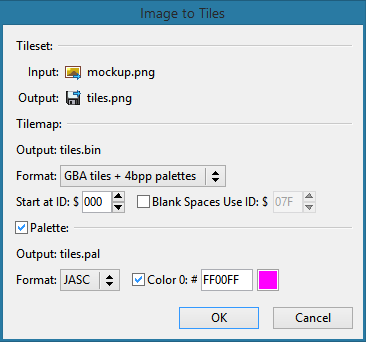
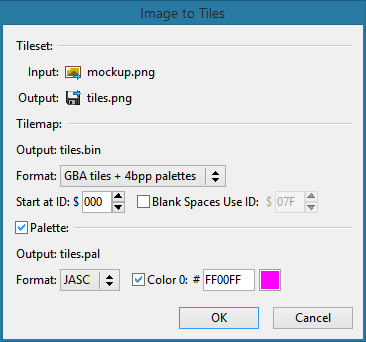
Join the leading "#" and "$" to their inputs for deactivation styling

diff --git a/src/option-dialogs.cpp b/src/option-dialogs.cpp
@@ -799,13 +799,13 @@ void Image_To_Tiles_Dialog::initialize_content() {
 	_tilemap_name = new Label(0, 0, 0, 0, "Output: " NO_FILES_DETERMINED_LABEL);
 	_format = new Dropdown(0, 0, 0, 0, "Format:");
 	_start_id = new Default_Hex_Spinner(0, 0, 0, 0, "Start at ID: $");
-	_use_space = new OS_Check_Button(0, 0, 0, 0, "Blank Spaces Use ID: $");
-	_space_id = new Default_Hex_Spinner(0, 0, 0, 0);
+	_use_space = new OS_Check_Button(0, 0, 0, 0, "Blank Spaces Use ID: ");
+	_space_id = new Default_Hex_Spinner(0, 0, 0, 0, "$");
 	_palette = new OS_Check_Button(0, 0, 0, 0, "Palette:");
 	_palette_name = new Label(0, 0, 0, 0, "Output: " NO_FILES_DETERMINED_LABEL);
 	_palette_format = new Dropdown(0, 0, 0, 0, "Format:");
-	_color_zero = new OS_Check_Button(0, 0, 0, 0, "Color 0: #");
-	_color_zero_rgb = new OS_Hex_Input(0, 0, 0, 0);
+	_color_zero = new OS_Check_Button(0, 0, 0, 0, "Color 0: ");
+	_color_zero_rgb = new OS_Hex_Input(0, 0, 0, 0, "#");
 	_color_zero_swatch = new Fl_Button(0, 0, 0, 0);
 	_image_chooser = new Fl_Native_File_Chooser(Fl_Native_File_Chooser::BROWSE_FILE);
 	_tileset_chooser = new Fl_Native_File_Chooser(Fl_Native_File_Chooser::BROWSE_SAVE_FILE);
@@ -900,7 +900,7 @@ int Image_To_Tiles_Dialog::refresh_content(int ww, int dy) {
 	wgt_w = text_width(_use_space->label(), 3) + _use_space->labelsize() + 4;
 	wgt_off += _start_id->w() + win_m;
 	_use_space->resize(wgt_off, dy, wgt_w, wgt_h);
-	wgt_off += _use_space->w();
+	wgt_off += _use_space->w() + text_width(_space_id->label(), 1);
 	wgt_w = MAX(text_width("AAA", 2), text_width("FFF", 2)) + wgt_h / 2 + 4;
 	_space_id->resize(wgt_off, dy, wgt_w, wgt_h);
 	dy += wgt_h + wgt_m;
@@ -921,7 +921,7 @@ int Image_To_Tiles_Dialog::refresh_content(int ww, int dy) {
 	wgt_off += _palette_format->w() + win_m;
 	wgt_w = _color_zero->labelsize() + 4 + text_width(_color_zero->label());
 	_color_zero->resize(wgt_off, dy, wgt_w, wgt_h);
-	wgt_off += _color_zero->w() + 4;
+	wgt_off += _color_zero->w() + 4 + text_width(_color_zero_rgb->label(), 1);
 	wgt_w = MAX(text_width("AAAAAA", 2), text_width("FFFFFF", 2));
 	_color_zero_rgb->resize(wgt_off, dy, wgt_w, wgt_h);
 	wgt_off += _color_zero_rgb->w() + wgt_m;
